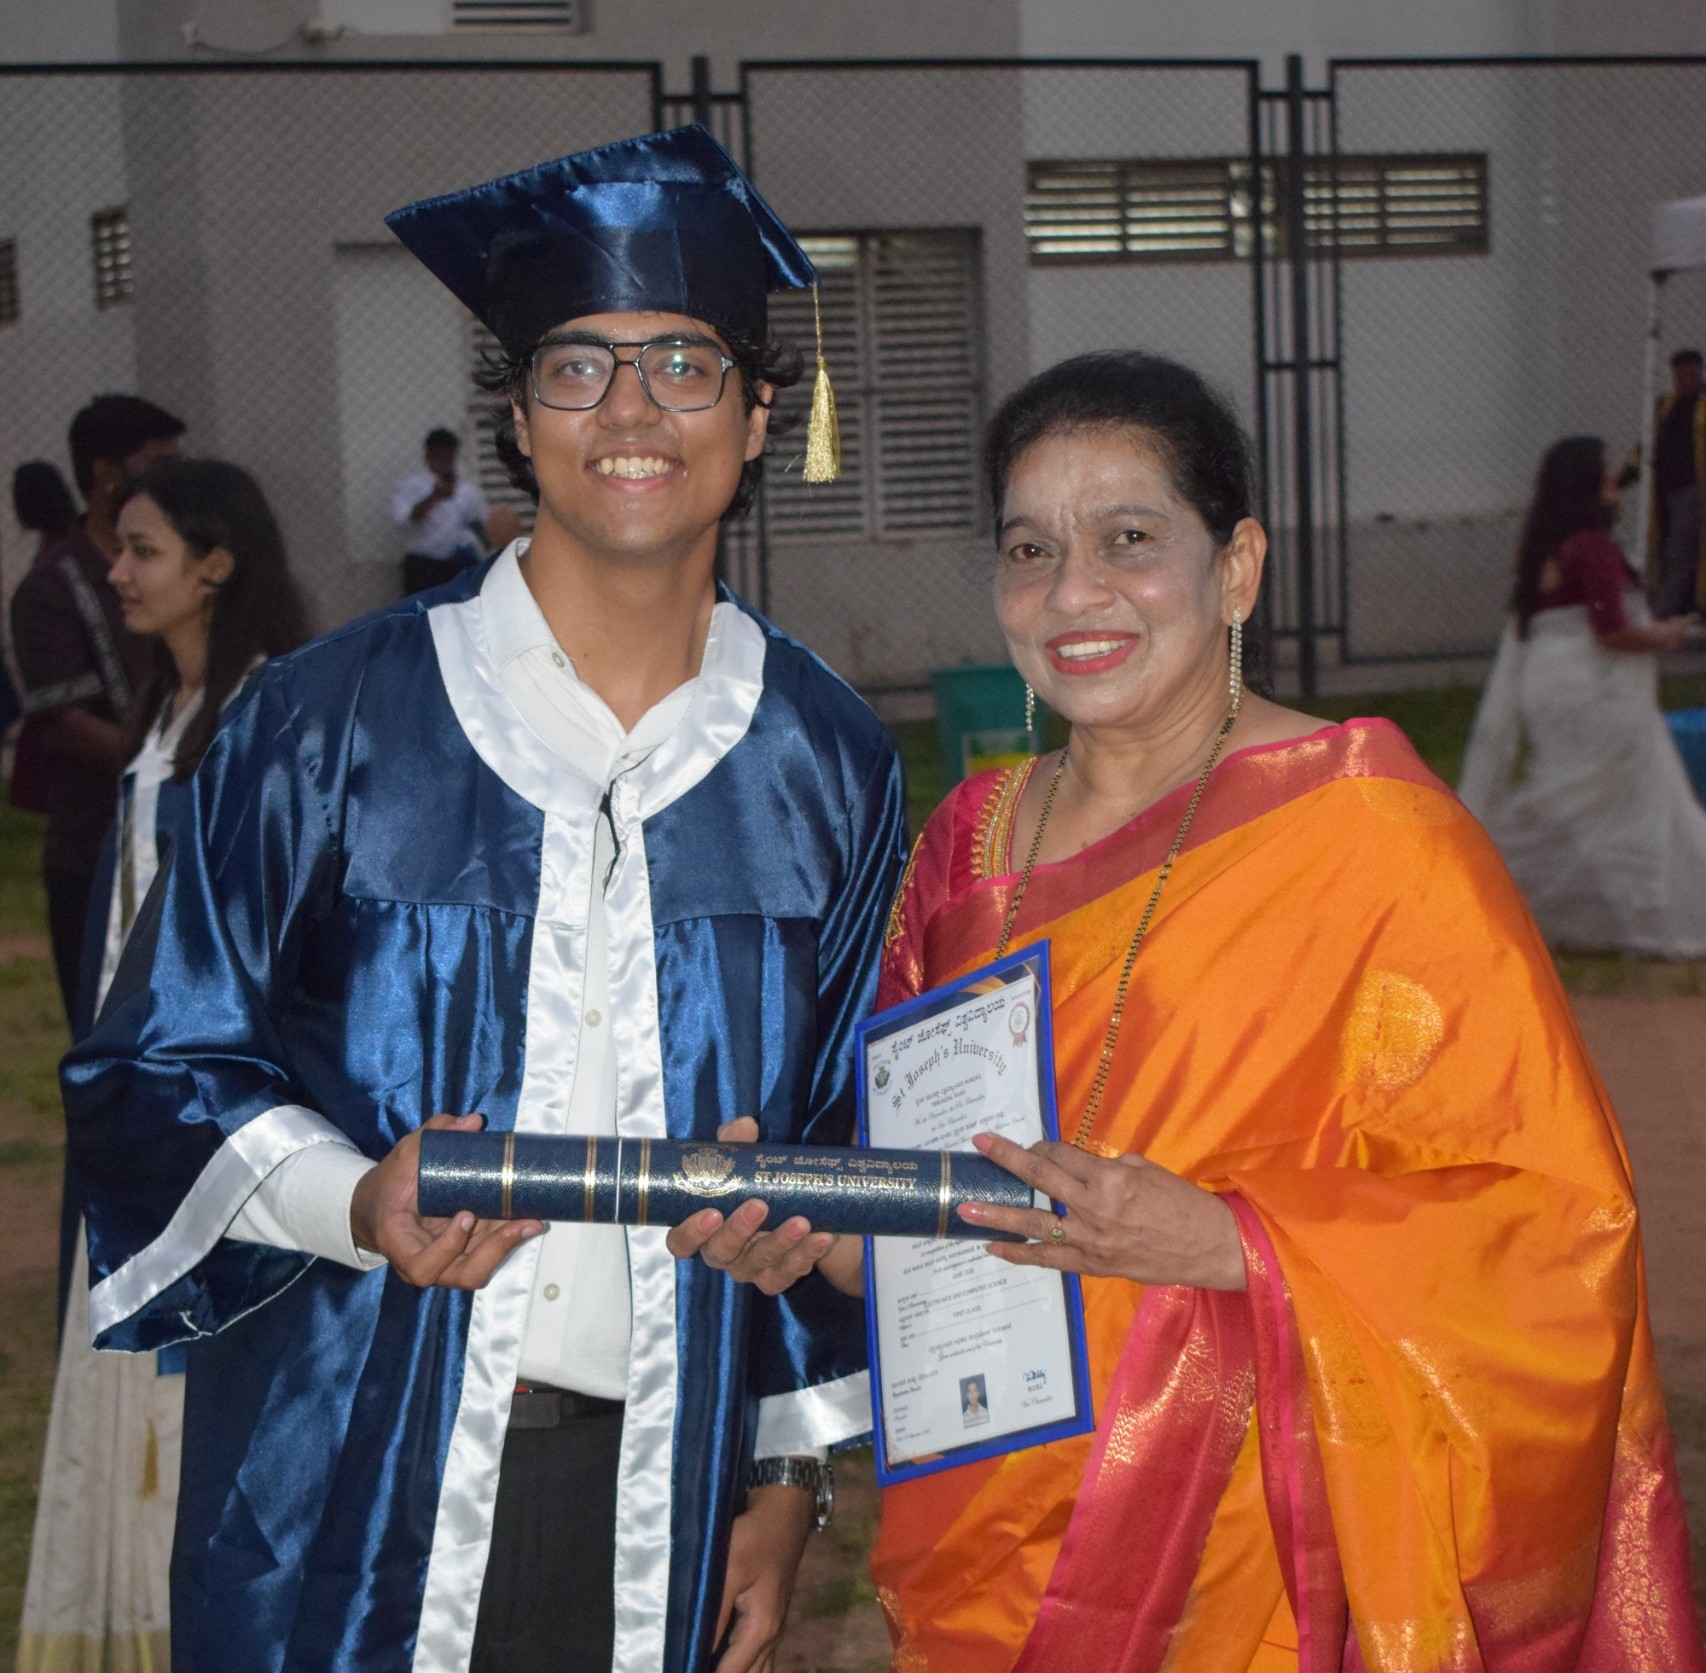
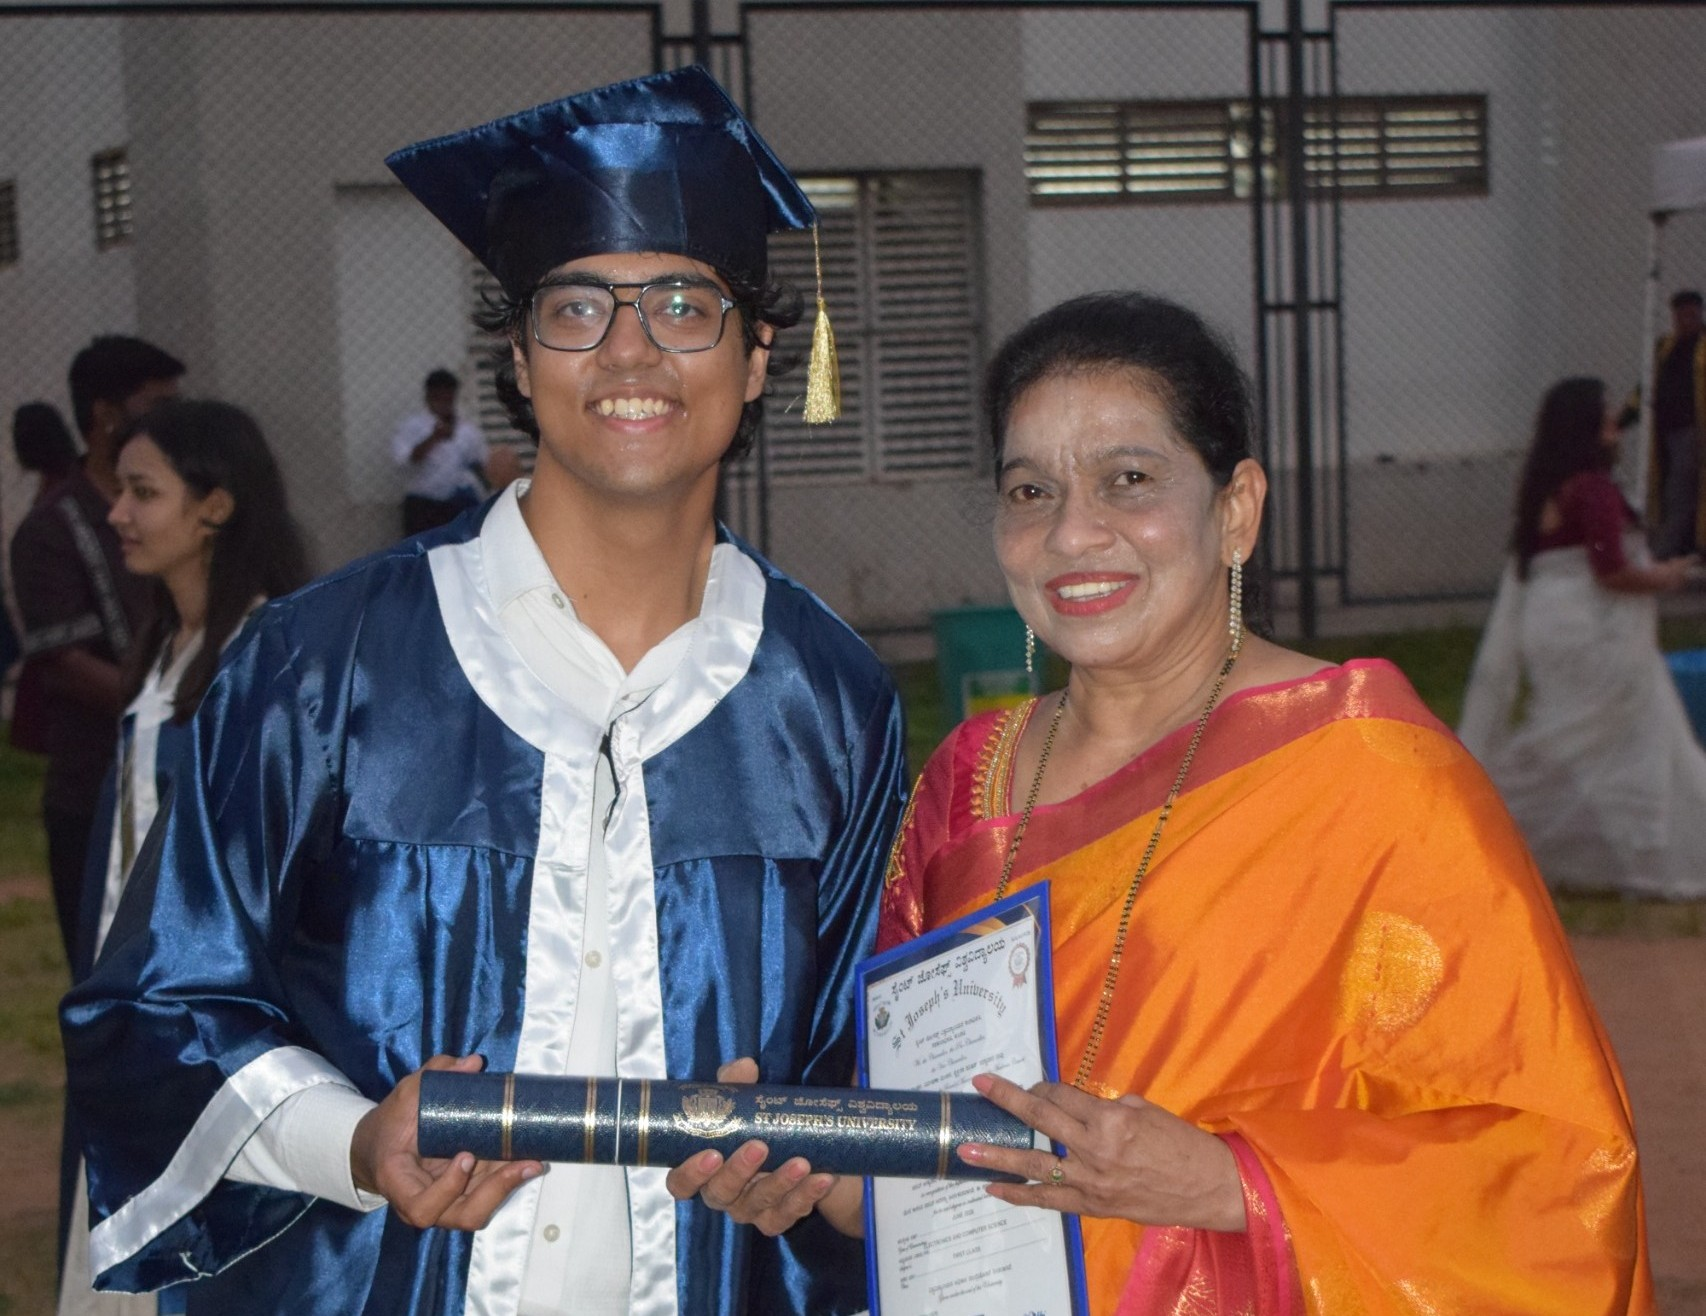
convocation

diff --git a/new.html b/new.html
@@ -8559,9 +8559,9 @@ MOBILE
                 gallery: [
                     'assets/associations/cyber-hex/01.jpeg',
                     'assets/associations/cyber-hex/02.jpeg',
-                    'assets/associations/cyber-hex/03.jpg',
+                    'assets/associations/cyber-hex/03.JPG',
                     'assets/associations/cyber-hex/04.jpeg',
-                    'assets/associations/cyber-hex/05.jpg'
+                    'assets/associations/cyber-hex/05.JPG'
                 ],
                 sections: [
                     { title: 'Association', body: 'Cyber HEX · Cybersecurity Community' },
